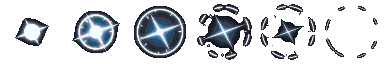
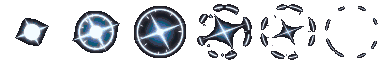
Toán tu tiên: fx_kiem vòng sửa 5 - chớp nổ không đục, vết chém sắc, nhật ký nhìn-sửa

diff --git a/art/src/fx_kiem/fx_kiem.py b/art/src/fx_kiem/fx_kiem.py
@@ -478,7 +478,9 @@ def make_kiem_no(g):
     core = fx.mat("core", ramp[3])
     acc = fx.mat("acc", RAMP["flame"][2] if g == 4 else ramp[3])
     F = MB().disc(0, 0, 1.0, 32, 1, 0).build(fx, "flash", glow)
-    fx.track(F, lambda t, i: dict(s=Rm * [0.55, 0.85, 0.9, 0.75, 0.5, 0.25][i], op=[1, 0.9, 0.6, 0.35, 0.15, 0.0][i] + 0.001))
+    # the flash shrinks away instead of dimming (dim gold / violet snaps to a dark plate)
+    fx.track(F, lambda t, i: dict(s=Rm * [0.55, 0.85, 0.75, 0.45, 0.2, 0.0][i] + 0.001, op=[1, 0.95, 0.85, 0.75, 0.6, 0.0][i] + 0.001,
+                                  show=i < 5))
     C = MB().disc(0, 0, 1.0, 24).build(fx, "white", core)
     fx.track(C, lambda t, i: dict(s=Rm * [0.32, 0.26, 0.14, 0.06, 0.0, 0.0][i] + 0.001, show=i < 4))
     # the cut itself: an X of two blades of light (the wave's crescent breaks into a cross)
@@ -576,7 +578,7 @@ def make_kiem_ngan(k):
             x = -L + 2 * L * s
             y = U(px * 0.05) * math.sin(PI * s) + off               # a shallow crescent bowing away from the camera
             pts.append((x, y))
-            ws.append(Wd * wk * math.sin(PI * s) ** 0.6 * (0.35 + 0.65 * s ** 0.7) + 0.005)
+            ws.append(Wd * wk * math.sin(PI * s) ** 0.95 * (0.35 + 0.65 * s ** 0.7) + 0.005)
         return MB().strip(pts, ws, soft=soft)
     HD = [0.45, 1.05, 1.1, 1.1, 1.1, 1.1, 1.1, 1.1]
     TL = [-0.4, -0.4, -0.35, -0.3, -0.2, 0.0, 0.25, 0.55]

diff --git a/art/src/fx_kiem/README.md b/art/src/fx_kiem/README.md
@@ -144,3 +144,17 @@ Round 4 (proof on the characters, 3x and 1x):
 - T1 still too bright for a mortal (white core): body now dull steel, core steel light, only the tip glint pale.
 - T10 cropped by the proof cell: cell made taller.
 - Song lightning branches touched the frame edge on 3 sheets: no branches on the flying wave.
+
+Round 5 (impacts, scars, families after round 3; then a clean rebuild):
+- kiem_no_4's flash disc faded by dimming and snapped to a dark gold-brown plate under the cross: it now shrinks away
+  (opacity stays high) and is gone by the last frame.
+- Scars were blunt lenses: ends sharpened (width profile sin^0.95).
+- Clean rebuild (blend + render folders deleted, full build twice): all 42 sheets and the 6 previews byte-identical;
+  no frame touches the edge; `qc.py client/assets/v2/fx`: OK (110 files, 0 problems).
+
+## Still weak (honest)
+- T5 / T6 / T7 share a size class and differ mostly by colour, the double wave and accents; T7's rune strokes are
+  barely readable at 1x (they show as texture).
+- The ground scar (`kiem_ngan`) and the low-group impacts are serviceable, not spectacular; `kiem_no` ring fragments
+  are evenly spaced (a little mechanical).
+- `cung_ten_1/2` and `phap_dan_1/2` share the 64 px frame, so g1 -> g2 is colour + ring, not size.
